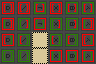
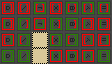
XNor logic gate

diff --git a/Tiles/LogicGate.cs b/Tiles/LogicGate.cs
@@ -12,13 +12,14 @@ public enum LogicGateType : byte
     Xor,
     Nand,
     Nor,
+    XNor,
 }
 public enum InputType { A, B }
 public class LogicGate : TriggerTile
 {
     public LogicGateType GateType { get; set; }
     public bool InputA { get; private set; } = false;
-    public bool? InputB { get; private set; } = false;
+    public bool InputB { get; private set; } = false;
     public LogicGate(Point location, string levelName, TileEffect effectType, ByteCoord effectCoord, LevelPath effectLevel, LogicGateType gate) : base(TileTypeID.LogicGate, location, levelName, effectType, effectCoord, effectLevel)
     {
         GateType = gate;
@@ -27,18 +28,18 @@ public class LogicGate : TriggerTile
     {
         Point dest = CameraManager.TileToScreen(Location);
         int column = (int)GateType;
-        int row = (InputA ? 1 : 0) + (InputB != null && InputB.Value ? 2 : 0);
+        int row = (InputA ? 1 : 0) + (InputB ? 2 : 0);
         Rectangle source = GetAnimationSource(Type.Texture, column, row: row);
         DrawTexture(gameManager.Batch, Type.Texture, dest, source: source, scale: Constants.TileSizeScale);
     }
-    public void SetInput(GameManager gameManager, bool? input, InputType inputType)
+    public void SetInput(GameManager gameManager, bool input, InputType inputType)
     {
         // Set
-        if (inputType == InputType.A && input.HasValue)
-            InputA = input.Value;
+        if (inputType == InputType.A)
+            InputA = input;
         else if (inputType == InputType.B)
             InputB = input;
-
+        
         // Solve
         bool act = Solve(GateType, InputA, InputB);
         if (act != Activated)
@@ -48,15 +49,12 @@ public class LogicGate : TriggerTile
     public override void WriteState(BinaryWriter writer, GameManager gameManager)
     {
         writer.Write(InputA);
-        writer.Write(InputB ?? false);
+        writer.Write(InputB);
     }
     public override void ReadState(BinaryReader reader, GameManager gameManager)
     {
         SetInput(gameManager, reader.ReadBoolean(), InputType.A);
         SetInput(gameManager, reader.ReadBoolean(), InputType.B);
-
-        if (GateType is LogicGateType.Or)
-            SetInput(gameManager, null, InputType.B);
     }
     public override void WriteLevelData(BinaryWriter writer)
     {
@@ -67,8 +65,6 @@ public class LogicGate : TriggerTile
     {
         base.ReadLevelData(reader, levelPath);
         GateType = (LogicGateType)reader.ReadByte();
-        if (GateType == LogicGateType.Or)
-            InputB = null;
     }
     public override void Edit(EditorManager editorManager)
     {
@@ -86,18 +82,22 @@ public class LogicGate : TriggerTile
         }
 
         GateType = Enum.Parse<LogicGateType>(values[0]);
+
     }
     public static bool Solve(LogicGateType gate, bool a, bool? b = null)
     {
+        bool bValue = b ?? false;
+
         return gate switch
         {
-            LogicGateType.And  => a && (b.HasValue && b.Value),
-            LogicGateType.Or   => a || (b.HasValue && b.Value),
-            LogicGateType.Not  => !a,
-            LogicGateType.Xor  => a ^ (b.HasValue && b.Value),
-            LogicGateType.Nand  => !(a && (b.HasValue && b.Value)),
-            LogicGateType.Nor  => !(a || (b.HasValue && b.Value)),
-            _ => false
+            LogicGateType.And => a && bValue,
+            LogicGateType.Or => a || bValue,
+            LogicGateType.Not => !a,
+            LogicGateType.Xor => a ^ bValue,
+            LogicGateType.Nand => !(a && bValue),
+            LogicGateType.Nor => !(a || bValue),
+            LogicGateType.XNor => a == bValue,
+            _ => false,
         };
     }
 }

diff --git a/Managers/TextureManager.cs b/Managers/TextureManager.cs
@@ -737,7 +737,7 @@ public static class TextureManager
         Metadata[TextureID.TimedPressurePlate] = new(Textures[TextureID.TimedPressurePlate].Bounds.Size, new(1, 5), "tile");
         Metadata[TextureID.Lever] = new(Textures[TextureID.Lever].Bounds.Size, new(1, 2), "tile");
         Metadata[TextureID.Target] = new(Textures[TextureID.Target].Bounds.Size, new(1, 2), "tile");
-        Metadata[TextureID.LogicGate] = new(Textures[TextureID.LogicGate].Bounds.Size, new(6, 4), "tile");
+        Metadata[TextureID.LogicGate] = new(Textures[TextureID.LogicGate].Bounds.Size, new(7, 4), "tile");
         // TILES METADATA INSERT
         Metadata[TextureID.Torch] = new(Textures[TextureID.Torch].Bounds.Size, new(6, 1), "decal");
         Metadata[TextureID.BlueTorch] = new(Textures[TextureID.BlueTorch].Bounds.Size, new(6, 1), "decal");
